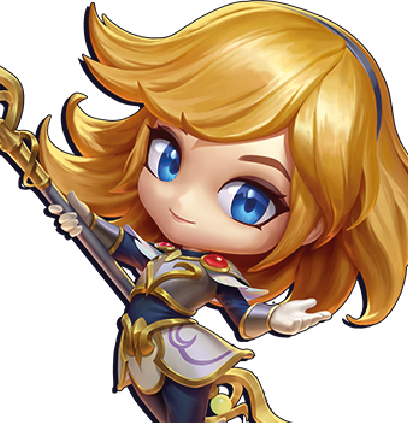
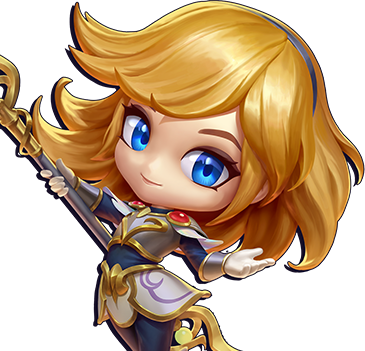
fix: 럭스 이미지 위치 수정

diff --git a/css/main.css b/css/main.css
@@ -522,7 +522,7 @@ display: none ;
     max-width: 400px;
     min-width: 300px;
     position: absolute;
-    top: -392px;
+    top: 392px;
     right: -30%;
   }
 
